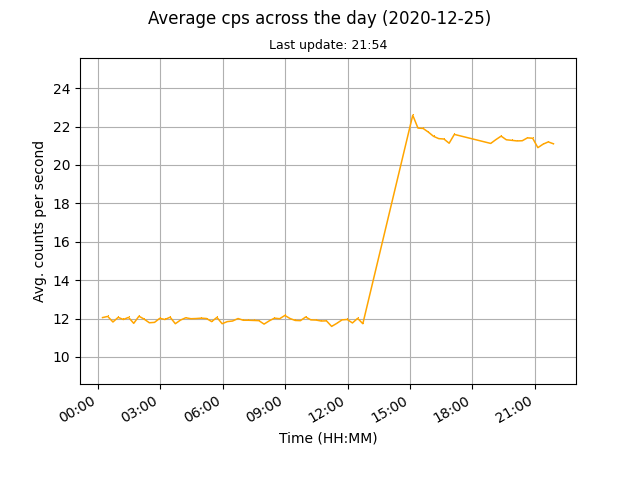
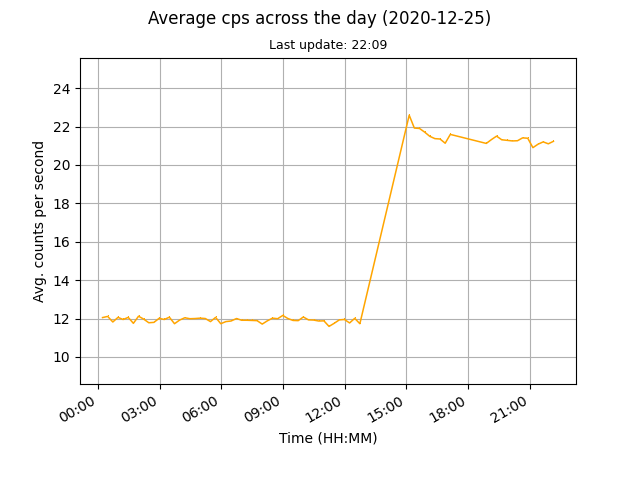
auto data update

diff --git a/docs/index.html b/docs/index.html
@@ -45,8 +45,8 @@
 	
 	<br>
 	
-	<p>Current counts per second (cps): 21.1</p>
-	<p>Last update: 2020-12-25, 21:54</p>
+	<p>Current counts per second (cps): 21.23</p>
+	<p>Last update: 2020-12-25, 22:09</p>
 
 	<p><a href="images/monthly.png"><img src="images/monthly.png" alt="Mothly avg cps data"></a><a href="images/daily.png"><img src="images/daily.png" alt="Daily avg cps data"></a></p>
 	
